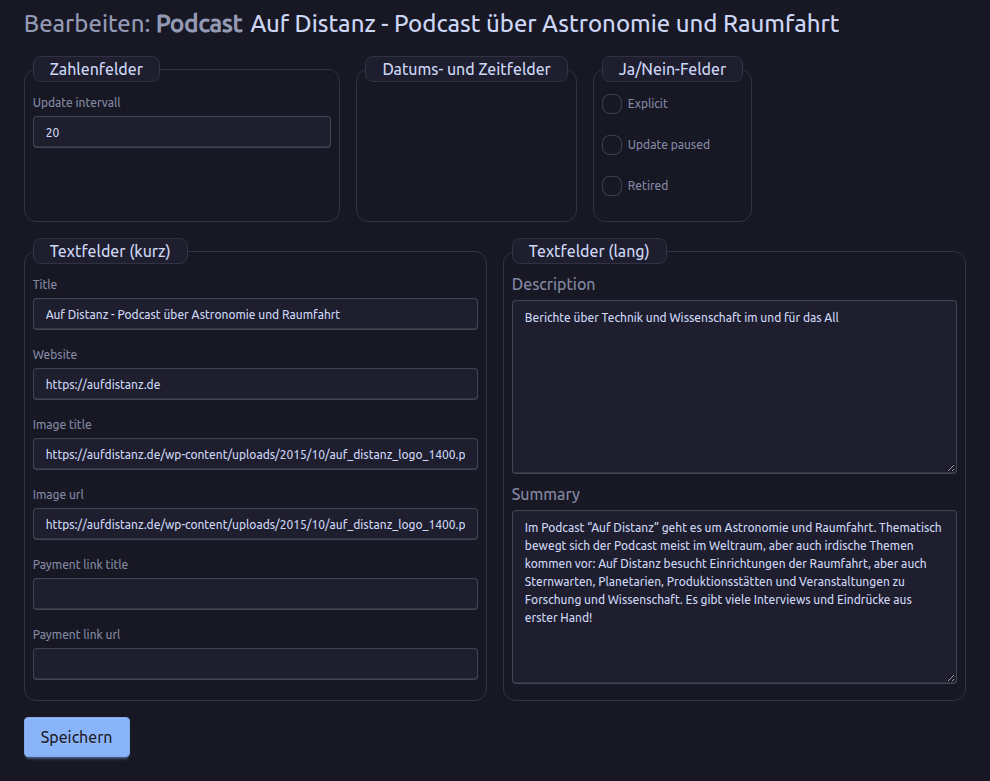
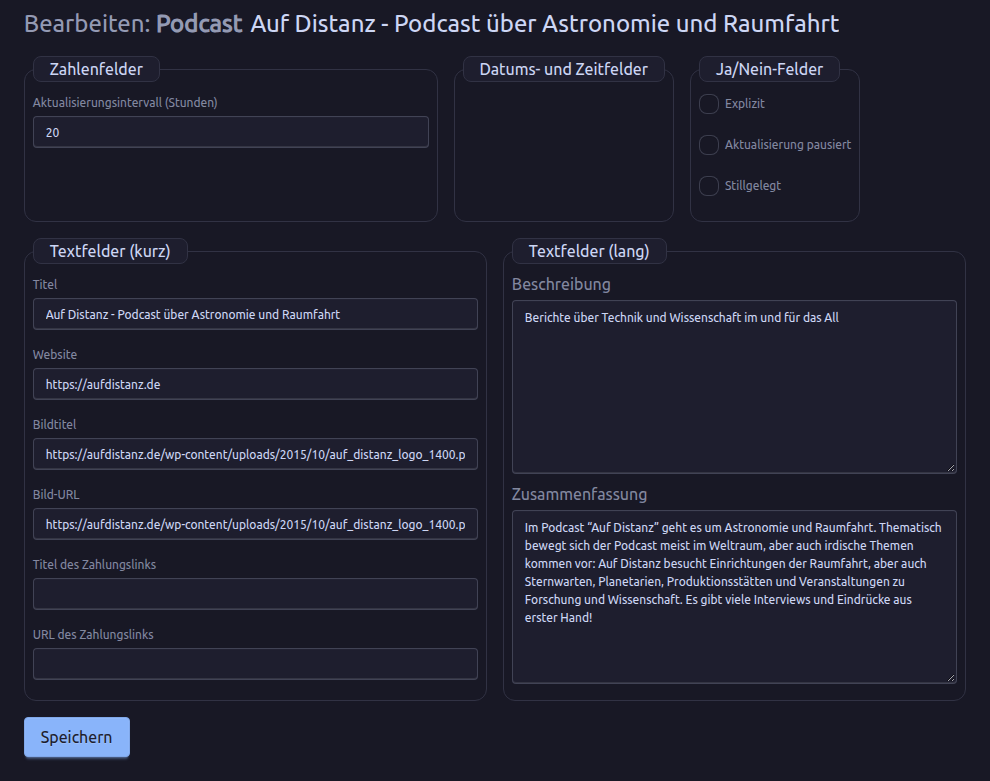
Moderator manuals: form field names updated (German labels), new shots of Edit podcast and Edit feed in both languages

diff --git a/pages/manuals/moderator-manual.de.md b/pages/manuals/moderator-manual.de.md
@@ -69,15 +69,15 @@ Wählen Sie einen Podcast mit dem Kästchen am Anfang seiner Zeile aus und klick
 
 ### Einen Podcast bearbeiten
 
-Mit **✏ Podcast bearbeiten** ändern Sie Titel, Website, Beschreibung, Zusammenfassung, Bildtitel, Bild-URL, Titel und URL des Zahlungslinks und die Angabe „explicit“. Das Formular bietet außerdem drei Einstellungen für die Aktualisierungen (die Feldnamen sind englisch):
+Mit **✏ Podcast bearbeiten** ändern Sie Titel, Website, Beschreibung, Zusammenfassung, Bildtitel, Bild-URL, Titel und URL des Zahlungslinks und die Angabe **Explizit**. Das Formular bietet außerdem drei Einstellungen für die Aktualisierungen:
 
-* **Update paused**: Panoptikum prüft den Feed nicht mehr auf Aktualisierungen.
-* **Update intervall**: die Zahl der Stunden zwischen zwei Prüfungen des Feeds. Panoptikum passt sie selbst an: Nach jeder Prüfung ohne neue Episode kommt eine Stunde dazu (bis zu einer Woche), und bei einer neuen Episode geht es zurück auf 10 Stunden.
-* **Retired**: Panoptikum prüft den Feed nicht mehr, meist weil er 10 Mal hintereinander nicht gelesen werden konnte.
+* **Aktualisierung pausiert**: Panoptikum prüft den Feed nicht mehr auf Aktualisierungen.
+* **Aktualisierungsintervall (Stunden)**: die Zahl der Stunden zwischen zwei Prüfungen des Feeds. Panoptikum passt sie selbst an: Nach jeder Prüfung ohne neue Episode kommt eine Stunde dazu (bis zu einer Woche), und bei einer neuen Episode geht es zurück auf 10 Stunden.
+* **Stillgelegt**: Panoptikum prüft den Feed nicht mehr, meist weil er 10 Mal hintereinander nicht gelesen werden konnte.
 
 ![Das Formular zum Bearbeiten eines Podcasts](/media/manual-mod-edit-podcast-de.png)
 
-Bitte beachten Sie: Die meisten Daten eines Podcasts stammen aus seinem Feed. Die nächste Aktualisierung aus dem Feed überschreibt Ihre Änderungen. Um sie zu behalten, kreuzen Sie **Update paused** an. Die regelmäßigen Aktualisierungen überspringen pausierte und stillgelegte Podcasts, aber „Metadaten aktualisieren“ auf der Seite des Podcasts nimmt die Aktualisierungen wieder auf und liest den Feed erneut. Wo es geht, bitten Sie lieber die Podcaster:in, den Feed zu korrigieren: Dann bleiben die Daten dauerhaft richtig.
+Bitte beachten Sie: Die meisten Daten eines Podcasts stammen aus seinem Feed. Die nächste Aktualisierung aus dem Feed überschreibt Ihre Änderungen. Um sie zu behalten, kreuzen Sie **Aktualisierung pausiert** an. Die regelmäßigen Aktualisierungen überspringen pausierte und stillgelegte Podcasts, aber „Metadaten aktualisieren“ auf der Seite des Podcasts nimmt die Aktualisierungen wieder auf und liest den Feed erneut. Wo es geht, bitten Sie lieber die Podcaster:in, den Feed zu korrigieren: Dann bleiben die Daten dauerhaft richtig.
 
 ### Eine Episode bearbeiten
 
@@ -87,7 +87,7 @@ Bitte beachten Sie: Die meisten Daten eines Podcasts stammen aus seinem Feed. Di
 
 ### Einen Feed bearbeiten
 
-**🔍 Liste der Feeds** zeigt die Feeds des ausgewählten Podcasts. Mit **✏ Feed bearbeiten** ändern Sie die Adresse des Feeds (self link URL) und seinen Titel, zum Beispiel wenn ein Podcast umgezogen ist und sein alter Hoster nicht weiterleitet.
+**🔍 Liste der Feeds** zeigt die Feeds des ausgewählten Podcasts. Mit **✏ Feed bearbeiten** ändern Sie die Adresse des Feeds (**Feed-URL**) und seinen Titel (**Feed-Titel**), zum Beispiel wenn ein Podcast umgezogen ist und sein alter Hoster nicht weiterleitet.
 
 Hatte der Feed früher andere Adressen, bietet **Eine frühere URL wiederherstellen** sie mit dem Datum an, an dem Panoptikum sie vermerkt hat. Wählen Sie eine aus und klicken Sie auf **Wiederherstellen**; Panoptikum fragt nach, bevor es sie wieder zur Feed-Adresse macht.
 

diff --git a/pages/manuals/moderator-manual.md b/pages/manuals/moderator-manual.md
@@ -72,7 +72,7 @@ Select a podcast in the table with the box at the start of its row, then use one
 **✏ Edit Podcast** lets you change the title, website, description, summary, image title, image URL, payment link title and URL, and explicit. It also offers three settings for the updates:
 
 * **Update paused**: Panoptikum doesn't check the feed for updates any more.
-* **Update intervall**: the number of hours between two checks of the feed. Panoptikum adjusts it by itself: it adds an hour after every check without a new episode (up to a week) and goes back to 10 hours when a new episode turns up.
+* **Update interval (hours)**: the number of hours between two checks of the feed. Panoptikum adjusts it by itself: it adds an hour after every check without a new episode (up to a week) and goes back to 10 hours when a new episode turns up.
 * **Retired**: Panoptikum doesn't check the feed any more, usually because it couldn't be read for 10 times in a row.
 
 ![The form to edit a podcast](/media/manual-mod-edit-podcast.png)
@@ -87,7 +87,7 @@ Please note: Most of the podcast's data comes from its feed. The next update fro
 
 ### Editing a Feed
 
-**🔍 List of Feeds** shows the feeds of the selected podcast. **✏ Edit Feed** lets you change the feed's address (self link URL) and its title, for example when a podcast moved and its old hoster doesn't redirect.
+**🔍 List of Feeds** shows the feeds of the selected podcast. **✏ Edit Feed** lets you change the feed's address (**Feed URL**) and its title (**Feed title**), for example when a podcast moved and its old hoster doesn't redirect.
 
 If the feed had other addresses before, **Restore a previous URL** offers them with the date Panoptikum noted them. Choose one and use **Restore**; Panoptikum asks before it makes it the feed address again.
 
